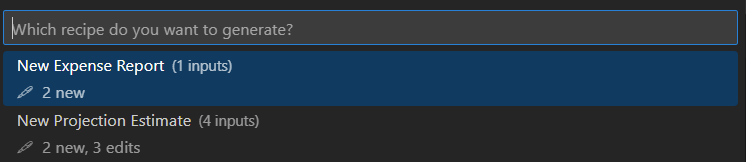
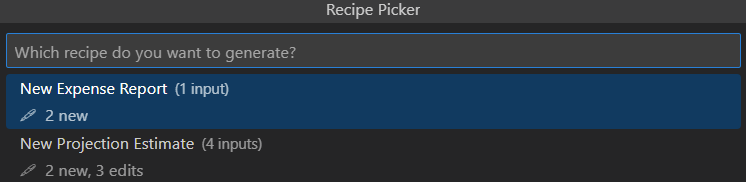
Adds p4 support

Changed region(s): [[0.0, 0.1235, 1.0, 0.8333], [0.0, 0.0, 1.0, 0.1235], [0.0, 0.8642, 0.2158, 0.9877]]

diff --git a/src/perforce_subscription.ts b/src/perforce_subscription.ts
@@ -1,0 +1,165 @@
+import { Uri, workspace, window, WorkspaceFoldersChangeEvent } from 'vscode';
+import { join } from 'path';
+
+import { promises as fs } from 'fs';
+import { exec } from 'child_process';
+import { promisify } from 'util';
+const asyncExec = promisify(exec);
+
+type P4CommandResult = {
+    stdout: string|undefined,
+    stderr: string|undefined
+};
+
+// CLI:
+// p4 [global options] command [command-specific options] [command arguments]
+class PerforceSubscription {
+    private readonly p4Exe: string;
+    private static perforceWorkspaceMap = new Map<Uri,string>();
+
+    constructor() {
+        this.p4Exe = `${/^win/.test(process.platform) ? 'p4.exe' : 'p4'}`;
+        workspace.onDidChangeWorkspaceFolders(this.onWorkspaceChanged);
+    }
+
+    public dispose() {
+        // required to register subscription
+    }
+
+    public async fetchWorkspaceMappings() {
+        await this.onWorkspaceChanged({ added: workspace.workspaceFolders || [], removed: [] });
+    }
+
+    private async findP4ClientNameForWorkpace(workspaceUri: Uri): Promise<string|undefined> {
+        // 1. Look for client name in config
+        for (const p4ConfigFileCandidate of [process.env.P4CONFIG, "P4CONFIG", ".p4config"]) {
+            if (p4ConfigFileCandidate) {
+                try {
+                    const workspaceDirectory = workspaceUri.fsPath;
+                    const configPath = join(workspaceDirectory, p4ConfigFileCandidate);
+                    const configContents = await fs.readFile(configPath, { encoding:'utf8' });
+                    const configFileLines = configContents.replaceAll(/\r\n/g, '\n').split('\n');
+                    const foundP4ClientName = configFileLines.find((configLine) => {
+                        const [key, value] = configLine.split("=");
+                        return (key && value && key === 'P4CLIENT') ? value : undefined;
+                    });
+                    if (foundP4ClientName) {
+                        return foundP4ClientName;
+                    }
+                }
+                catch (error: any) {
+                    if (error && error.code !== 'ENOENT') {
+                        window.showErrorMessage(`An exception occured while trying to find the p4 client name\nError: ${error}`)
+                    }
+                }
+            }
+        }
+
+        // 2. Fallback to reading the output of p4 info
+        const p4InfoResult = await this.tryInfo();
+        const clientNameKey = 'Client name';
+        if (p4InfoResult && p4InfoResult[clientNameKey]) {
+            return p4InfoResult[clientNameKey];
+        }
+
+        return undefined;
+    }
+
+    private async onWorkspaceChanged(workspaceFoldersChangeEvent: WorkspaceFoldersChangeEvent) {
+        const addEntryIfNew = async (uri: Uri) => {
+            if (!PerforceSubscription.perforceWorkspaceMap.get(uri)) {
+                const locatedClientName = await this.findP4ClientNameForWorkpace(uri);
+                if (locatedClientName) {
+                    PerforceSubscription.perforceWorkspaceMap.set(uri, locatedClientName);
+                }
+            }
+        };
+
+        const { added } = workspaceFoldersChangeEvent;
+        for (const workspaceFolder of added) {
+            addEntryIfNew(workspaceFolder.uri);
+        }
+
+        for (const textDoc of workspace.textDocuments) {
+            addEntryIfNew(textDoc.uri);
+        }
+    }
+
+    private async sendCommand(command: string): Promise<P4CommandResult> {
+        let result: P4CommandResult = { stdout: undefined, stderr: undefined };
+        try {
+            result = await asyncExec(command);
+        }
+        catch (error) {
+            window.showErrorMessage(`${error}`);
+        }
+        return result;
+    }
+
+    private async tryFileCommand(fileUri: Uri, command: string): Promise<boolean> {
+        try {
+            const wksFolder = workspace.getWorkspaceFolder(fileUri);
+            if (!wksFolder) {
+                throw Error("Failed to find workspace folder");
+            }
+            const p4client = PerforceSubscription.perforceWorkspaceMap.get(wksFolder.uri);
+            if (!p4client) {
+                throw Error("Failed to find perforce workspace");
+            }
+            const fileCommandResult = await this.sendCommand(`${this.p4Exe} -c ${p4client} ${command} ${fileUri.fsPath}`);
+            const { stderr } = fileCommandResult;
+            if (stderr) {
+                throw Error(stderr);
+            }
+            return stderr === undefined || stderr === '';
+        }
+        catch (error) {
+            window.showErrorMessage(`P4 cmd failed: ${command} ${fileUri.fsPath}\nReason: ${error}`);
+        }
+        return false;
+    }
+
+    private async tryInfo(): Promise<Record<string, string>|undefined> {
+        try {
+            const p4Info = await this.sendCommand(`${this.p4Exe} info`);
+            const { stdout, stderr } = p4Info;
+            if (stderr) {
+                throw Error(stderr);
+            }
+            if (stdout) {
+                const commandOutputLines = stdout.replaceAll(/\r\n/g, '\n').split('\n');
+                if (commandOutputLines.length === 0) {
+                    throw Error('p4 info command from child process failed to print to stdout');
+                }
+
+                return commandOutputLines.reduce((outputRecord, line) => {
+                    if (line) {
+                        const splitLimit = 2;
+                        const lineSegments = line.trim().split(': ', splitLimit);
+                        if (lineSegments.length === splitLimit) {
+                            const [key, value] = lineSegments;
+                            if (key && value) {
+                                outputRecord[key] = value.trim();
+                            }
+                        }
+                    }
+                    return outputRecord;
+                }, {} as Record<string, string>);
+            }
+        }
+        catch (error) {
+            window.showErrorMessage(`P4 Subscription encountered an error:\n${error}`);
+        }
+        return undefined;
+    }
+
+    public async tryAdd(fileUri: Uri): Promise<boolean> {
+        return this.tryFileCommand(fileUri, 'add');
+    }
+
+    public async tryEdit(fileUri: Uri): Promise<boolean> {
+        return this.tryFileCommand(fileUri, 'edit');
+    }
+}
+
+export default PerforceSubscription;

diff --git a/src/extension.ts b/src/extension.ts
@@ -1,13 +1,22 @@
 import { ExtensionContext, commands, window, workspace } from 'vscode';
 
 import { Recipe } from './recipes';
+import PerforceSubscription from './perforce_subscription';
 
 export const activate = (context: ExtensionContext) => {
-	const disposable = commands.registerCommand('simple-code-gen.generate', async () => {
+
+	const perforceSubscription = new PerforceSubscription();
+	const recipeDisposableCommand = commands.registerCommand('simple-code-gen.generate', async () => {
 		
+		// 0. Add discovered p4 client names
+		const shouldUsePerforce: any = workspace.getConfiguration("simpleCodeGenerator").get("useP4Features");
+		if (shouldUsePerforce) {
+			await perforceSubscription.fetchWorkspaceMappings();
+		}
+
 		// 1. Load Recipes
-		const loadedConfig: any = workspace.getConfiguration("simpleCodeGenerator").get("recipes");
-		const allRecipes: Recipe[] = Recipe.parse(loadedConfig);
+		const loadedRecipesConfig: any = workspace.getConfiguration("simpleCodeGenerator").get("recipes");
+		const allRecipes: Recipe[] = Recipe.parse(loadedRecipesConfig);
 		const selectedQuickPickItem = await Recipe.promptForInput(allRecipes);
 		if (selectedQuickPickItem) {
 			const { recipe } = selectedQuickPickItem;
@@ -42,7 +51,11 @@ export const activate = (context: ExtensionContext) => {
 				}, []);
 				
 				for (const templateDependency of templateDependencies) {
-					await createTargetItem.generate(templateDependency, symbolMap);
+					const createResult = await createTargetItem.generate(templateDependency, symbolMap);
+					if (!createResult) {
+						window.showErrorMessage("One or more create target operations failed, aborting...");
+						return;
+					}
 				}
 			}
 
@@ -56,12 +69,18 @@ export const activate = (context: ExtensionContext) => {
 				}, []);
 
 				for (const templateDependency of templateDependencies) {
-					await updateTargetItem.generate(templateDependency, symbolMap);
+					const updateResult = await updateTargetItem.generate(templateDependency, symbolMap);
+					if (!updateResult) {
+						window.showErrorMessage("One or more update target operations failed, aborting...");
+						return;
+					}
 				}
 			}
 		}
 	});
-	context.subscriptions.push(disposable);
+
+	context.subscriptions.push(perforceSubscription);
+	context.subscriptions.push(recipeDisposableCommand);
 };
 
 export const deactivate = () => {};

diff --git a/src/recipes/recipeupdatetarget.ts b/src/recipes/recipeupdatetarget.ts
@@ -1,12 +1,16 @@
 import { promises as fs } from 'fs';
-import { window } from 'vscode';
+import { window, Uri,workspace } from 'vscode';
+
 import { InsertCriteria, InsertPosition, MatchMode, SymbolMap, UpdateTarget } from './types';
 import { isValidObject, handleWorkspaceFilePathSymbol, replaceMatchedSymbol } from './util';
+
+import PerforceSubscription from '../perforce_subscription';
 
 class RecipeUpdateTarget implements UpdateTarget {    
     name: string;
     path: string;
     insertCriteria: InsertCriteria;
+    private readonly p4Util: PerforceSubscription;
     private regexLineMatcher?: RegExp;
     private regexExitMatcher?: RegExp;
 
@@ -15,6 +19,7 @@ class RecipeUpdateTarget implements UpdateTarget {
         this.name = name;
         this.path = handleWorkspaceFilePathSymbol(path);
         this.insertCriteria = insertCriteria;
+        this.p4Util = new PerforceSubscription();
 
         const {
             matchMode,
@@ -85,11 +90,20 @@ class RecipeUpdateTarget implements UpdateTarget {
         try {
             // Revisit if this is not a reasonable assumption in terms of the size of files this will deal with
             this.transformSymbols(symbolMap);
+
+            const shouldUsePerforce: any = workspace.getConfiguration("simpleCodeGenerator").get("useP4Features");
+            if (shouldUsePerforce) {
+                const editResult = await this.p4Util.tryEdit(Uri.file(this.path));
+                if (!editResult) {
+                    throw Error('Failed to acquire edit permissions from p4');
+                }
+            }
+
             const rawResult = await fs.readFile(this.path);
             const normalizedSplitLines = rawResult.toString().replaceAll(/\r\n/g, '\n').split('\n');
             const insertIndex = this.findInsertIndex(normalizedSplitLines);
             if (insertIndex === -1) {
-                throw Error(`Recipe Update Target: ${this.path}\nFailed to find index to insert populated template`);
+                throw Error('Failed to find index to insert populated template');
             }
             normalizedSplitLines.splice(insertIndex, 0, content);
             const contentWithInsert = normalizedSplitLines.join('\n');

diff --git a/src/recipes/recipecreatetarget.ts b/src/recipes/recipecreatetarget.ts
@@ -1,19 +1,23 @@
 import { promises as fs } from 'fs';
-import { window } from 'vscode';
+import { window, Uri, workspace } from 'vscode';
 import { CreateTarget, SymbolMap } from './types';
 import { isValidObject, handleWorkspaceFilePathSymbol, replaceMatchedSymbol } from './util';
+
+import PerforceSubscription from '../perforce_subscription';
 
 
 class RecipeCreateTarget implements CreateTarget {
     name: string;
     outputFileName: string;
     outputPath: string;
+    private readonly p4Util: PerforceSubscription;
 
     constructor(data: CreateTarget) {
         const { name, outputFileName, outputPath } = data;
         this.name = name;
         this.outputFileName = handleWorkspaceFilePathSymbol(outputFileName);
         this.outputPath = handleWorkspaceFilePathSymbol(outputPath);
+        this.p4Util = new PerforceSubscription();
     }
 
     public static hasRequiredProperties(createTargetCandidate: any) {
@@ -46,13 +50,19 @@ class RecipeCreateTarget implements CreateTarget {
 
     public async generate(content: string, symbolMap: SymbolMap): Promise<boolean> {
         this.transformSymbols(symbolMap);
-        const filePath = `${this.outputPath}/${this.outputFileName}`;
+        const filePath = `${this.outputPath}${this.outputPath && this.outputPath.endsWith('/') ? '' : '/'}${this.outputFileName}`;
         try {
             await fs.mkdir(this.outputPath, { recursive: true });
             await fs.writeFile(filePath, content);
+
+            const shouldUsePerforce: any = workspace.getConfiguration("simpleCodeGenerator").get("useP4Features");
+            if (shouldUsePerforce) {
+                return await this.p4Util.tryAdd(Uri.file(filePath));
+            }
+            return true;
         }
         catch(error) {
-            window.showErrorMessage(`Create target: ${filePath}\\Write failed:\n${error}`);
+            window.showErrorMessage(`Create target: ${filePath}\nWrite failed:\n${error}`);
             return false;
         }
         return true;

diff --git a/src/recipes/recipedefinition.ts b/src/recipes/recipedefinition.ts
@@ -99,13 +99,13 @@ class Recipe implements RecipeDefinition {
 					recipe,
 					label: name,
 					alwaysShow: false,
-					description: `(${inputs.length} inputs)`,
+					description: `(${inputs.length} input${inputs.length > 1 ? 's' : ''})`,
 					detail: `🖋  ${createText}${separtor}${updateText}`	
 				};
 			}),
 			{
 				placeHolder: 'Which recipe do you want to generate?',
-				title: ":page_with_curl: Code Generator Recipe Picker",
+				title: "Recipe Picker",
 			}
 		);
     }

diff --git a/README.md b/README.md
@@ -1,6 +1,6 @@
 # Simple Code Generator
 
-This extension allows users to describe "recipes" for collecting user input values in order to transform existing files or create new ones.
+This extension allows users to describe "recipes" for collecting user input values in order to transform existing files or create new ones. 
 
 # Recipe
 You can specify multiple recipes in your `.vscode/settings.json` file. A recipe can be constructed and customized from the following components:
@@ -214,9 +214,18 @@ A create target describes a new file that will be created from a populated templ
 ```
 <p><br></p>
 
+# Perforce support
+If you want to extension to try to use p4 operations from detected enviroments please add the following to your `.vscode/settings.json`:
+```json
+{
+  "simpleCodeGenerator.useP4Features": true
+}
+```
 
-# Known Issues
+<p><br></p>
+
+## WIP/Issues
 * Detecting a p4 workspace is still experimental
 
 
-**Enjoy!**
+**Thank you!**
